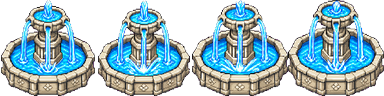
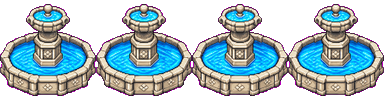
RP7 + RP7B · fix villager registry + wire Merchant + new fountain sheet
Villager registry bug
- VILLAGER_HUMANOID_AT pointed at (37,15) and (12,25) for Cliff Fisher
  and Village Elder, but the actual 'v' tiles in MALEZOR_MAP sit at
  (35,15) and (10,25).  Sprites silently fell through to the generic
  chibi fallback.  Registry now matches the real coordinates.

Wandering Merchant · full wiring
- BETA_NPC.sprites.merchant registered (single front pose, dirs:false).
- merchant_native.png loaded as idle + blink source.
- New 'v' tile at (34,11) in MALEZOR_MAP (open plaza east of fountain).
- Registry entry 'malezor:34,11' -> 'merchant'.

New water fountain sheet
- Replaced fountain_native.png with a new 4-frame animation
  (384x96 = 4 x 96x96) processed from the user's magenta-bg upload.
- Chroma-safe via resize_and_key(magenta) · 0 residual magenta,
  6537 blue water pixels preserved intact.

Files: rp7.html, rp7b.html,
       assets/rp7/beta_assets/props/fountain_native.png

diff --git a/rp7b.html b/rp7b.html
@@ -8091,7 +8091,7 @@ const MALEZOR_MAP = [
   '#,,,,,,,,,K,,,,,,,,IIIIII,,WWW,,,,,,GG,,,^,,#', // 8
   '#,,,,,,,,,,,,,,,,,,IIIIII,,WWW,,,,,,GG,,,,,,#', // 9
   '#T,,,,,,,,,,,,,,,,,IIIDII,,,,,,,,,,,,,,,,,,,#', // 10
-  '#,,,,,,,,,,,,,,,,,,,,,,,,,,,,,,,,,,,,,,,,,,,#', // 11
+  '#,,,,,,,,,,,,,,,,,,,,,,,,,,,,,,,,,v,,,,,,,,,#', // 11 · v = Wandering Merchant (see VILLAGER_HUMANOID_AT)
   '#,,,,,,,,GG,,,,N,,,,,,,,,,,,,,,,,,K,,,,,,,,T#', // 12
   '#,,,,,,,,GG,,,,,,,,,,,,,,,,,,,,,,,,,,,,,,,,,#', // 13
   '#,,,,,,,,,,,,,,,,,,,,,,,,,,,,,,,,,,,,,,,,,,,#', // 14
@@ -8499,9 +8499,15 @@ const NPC_ASSETS = {
 // checks this table first — if a match, it blits the named humanoid PNG
 // instead of drawing the generic elder chibi.
 const VILLAGER_HUMANOID_AT = {
-  // Malezor — Cliff Fisher wanders the east side, Village Elder near the hall
-  'malezor:37,15': 'cliff_fisher',
-  'malezor:12,25': 'village_elder',
+  // ★ 2026-08-01 · Corrected coordinates.  Prior registry pointed at
+  // (37,15) and (12,25) which had NO 'v' tile — the actual placements
+  // in MALEZOR_MAP are (35,15) and (10,25), so the humanoid sprites
+  // silently fell through to the generic chibi fallback.  Now matched.
+  // Malezor — Cliff Fisher (east side, near portal), Village Elder
+  // (south wing near the silver lodge), Wandering Merchant (fountain).
+  'malezor:35,15': 'cliff_fisher',
+  'malezor:10,25': 'village_elder',
+  'malezor:34,11': 'merchant',
 };
 // First-line-prefix → NPC_ASSETS key.  Used to auto-attach a portrait
 // to every dialog without hand-editing 30+ showDialog call sites.
@@ -8976,6 +8982,8 @@ BETA_NPC.sprites.jax           = { idle: new Image(), blink: new Image(), dirs: 
 BETA_NPC.sprites.quinn         = { idle: new Image(), blink: new Image(), dirs: true };
 BETA_NPC.sprites.cliff_fisher  = { idle: new Image(), blink: new Image(), dirs: true };
 BETA_NPC.sprites.village_elder = { idle: new Image(), blink: new Image(), dirs: true };
+// ★ 2026-08-01 · Wandering Merchant · single front-facing pose, no dirs.
+BETA_NPC.sprites.merchant      = { idle: new Image(), blink: new Image(), dirs: false };
 BETA_NPC.sprites.kelthor.idle.src        = 'assets/rp7/beta_assets/npc/kelthor_idle_dirs_native.png';
 BETA_NPC.sprites.kelthor.blink.src       = 'assets/rp7/beta_assets/npc/kelthor_idle_dirs_native.png';
 BETA_NPC.sprites.yara.idle.src           = 'assets/rp7/beta_assets/npc/yara_idle_dirs_native.png';
@@ -8988,6 +8996,8 @@ BETA_NPC.sprites.cliff_fisher.idle.src   = 'assets/rp7/beta_assets/npc/cliff_fis
 BETA_NPC.sprites.cliff_fisher.blink.src  = 'assets/rp7/beta_assets/npc/cliff_fisher_idle_dirs_native.png';
 BETA_NPC.sprites.village_elder.idle.src  = 'assets/rp7/beta_assets/npc/village_elder_idle_dirs_native.png';
 BETA_NPC.sprites.village_elder.blink.src = 'assets/rp7/beta_assets/npc/village_elder_idle_dirs_native.png';
+BETA_NPC.sprites.merchant.idle.src       = 'assets/rp7/beta_assets/npc/merchant_native.png';
+BETA_NPC.sprites.merchant.blink.src      = 'assets/rp7/beta_assets/npc/merchant_native.png';
 
 // ★ Gender is distributed across every Seer grunt by a hash of their HOME
 // tile, so a given grunt is always the same person — stable across reloads,

diff --git a/rp7.html b/rp7.html
@@ -8081,7 +8081,7 @@ const MALEZOR_MAP = [
   '#,,,,,,,,,K,,,,,,,,IIIIII,,WWW,,,,,,GG,,,^,,#', // 8
   '#,,,,,,,,,,,,,,,,,,IIIIII,,WWW,,,,,,GG,,,,,,#', // 9
   '#T,,,,,,,,,,,,,,,,,IIIDII,,,,,,,,,,,,,,,,,,,#', // 10
-  '#,,,,,,,,,,,,,,,,,,,,,,,,,,,,,,,,,,,,,,,,,,,#', // 11
+  '#,,,,,,,,,,,,,,,,,,,,,,,,,,,,,,,,,v,,,,,,,,,#', // 11 · v = Wandering Merchant (see VILLAGER_HUMANOID_AT)
   '#,,,,,,,,GG,,,,N,,,,,,,,,,,,,,,,,,K,,,,,,,,T#', // 12
   '#,,,,,,,,GG,,,,,,,,,,,,,,,,,,,,,,,,,,,,,,,,,#', // 13
   '#,,,,,,,,,,,,,,,,,,,,,,,,,,,,,,,,,,,,,,,,,,,#', // 14
@@ -8490,8 +8490,10 @@ const NPC_ASSETS = {
 // checks this table first — if a match, it blits the named humanoid PNG
 // instead of drawing the generic elder chibi.
 const VILLAGER_HUMANOID_AT = {
-  'malezor:37,15': 'cliff_fisher',
-  'malezor:12,25': 'village_elder',
+  // ★ 2026-08-01 · Corrected to actual tile coords (was 37/12 · never matched).
+  'malezor:35,15': 'cliff_fisher',
+  'malezor:10,25': 'village_elder',
+  'malezor:34,11': 'merchant',
 };
 // First-line-prefix → NPC_ASSETS key.  Used to auto-attach a portrait
 // to every dialog without hand-editing 30+ showDialog call sites.
@@ -8962,6 +8964,7 @@ BETA_NPC.sprites.jax           = { idle: new Image(), blink: new Image(), dirs: 
 BETA_NPC.sprites.quinn         = { idle: new Image(), blink: new Image(), dirs: true };
 BETA_NPC.sprites.cliff_fisher  = { idle: new Image(), blink: new Image(), dirs: true };
 BETA_NPC.sprites.village_elder = { idle: new Image(), blink: new Image(), dirs: true };
+BETA_NPC.sprites.merchant      = { idle: new Image(), blink: new Image(), dirs: false };
 BETA_NPC.sprites.kelthor.idle.src        = 'assets/rp7/beta_assets/npc/kelthor_idle_dirs_native.png';
 BETA_NPC.sprites.kelthor.blink.src       = 'assets/rp7/beta_assets/npc/kelthor_idle_dirs_native.png';
 BETA_NPC.sprites.yara.idle.src           = 'assets/rp7/beta_assets/npc/yara_idle_dirs_native.png';
@@ -8974,6 +8977,8 @@ BETA_NPC.sprites.cliff_fisher.idle.src   = 'assets/rp7/beta_assets/npc/cliff_fis
 BETA_NPC.sprites.cliff_fisher.blink.src  = 'assets/rp7/beta_assets/npc/cliff_fisher_idle_dirs_native.png';
 BETA_NPC.sprites.village_elder.idle.src  = 'assets/rp7/beta_assets/npc/village_elder_idle_dirs_native.png';
 BETA_NPC.sprites.village_elder.blink.src = 'assets/rp7/beta_assets/npc/village_elder_idle_dirs_native.png';
+BETA_NPC.sprites.merchant.idle.src       = 'assets/rp7/beta_assets/npc/merchant_native.png';
+BETA_NPC.sprites.merchant.blink.src      = 'assets/rp7/beta_assets/npc/merchant_native.png';
 
 // ★ Gender is distributed across every Seer grunt by a hash of their HOME
 // tile, so a given grunt is always the same person — stable across reloads,
